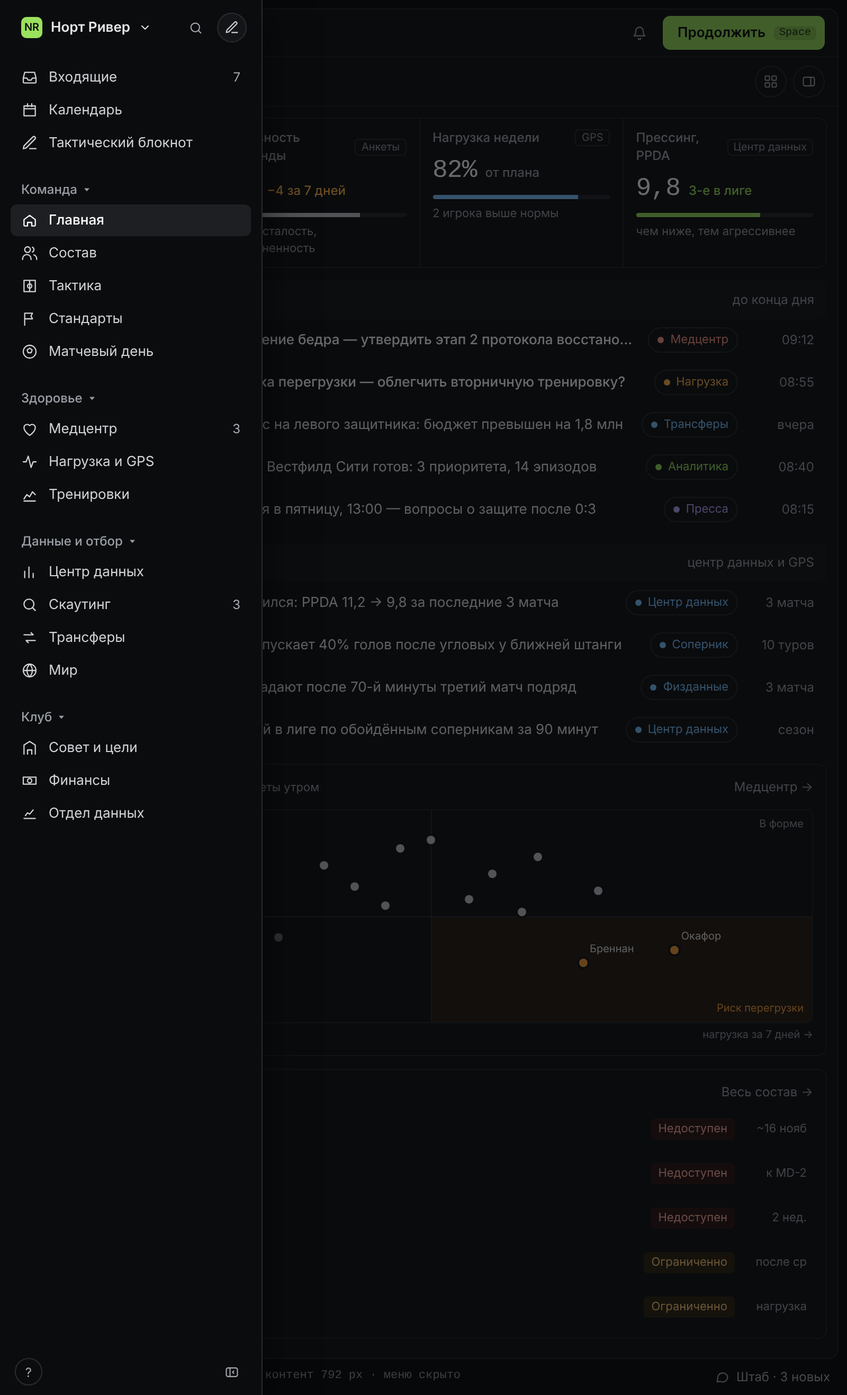
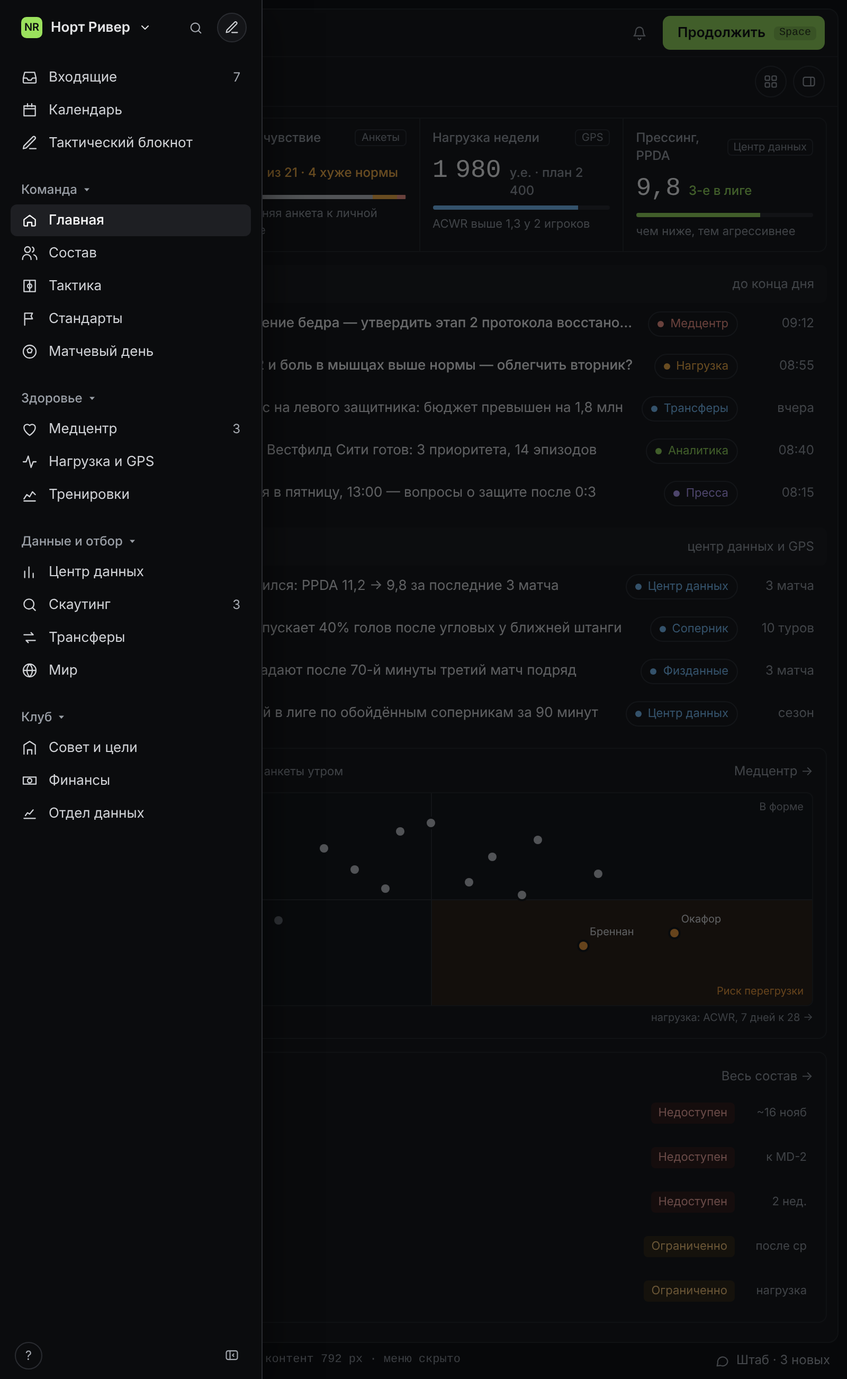
docs: wellness vs personal norm and load in AU/ACWR instead of percents (ADR-019)
- home and squad mockups updated
- concept: how wellness and load are shown

Claude-Session: https://claude.ai/code/session_01KdsR9CcbjxzH66kboJS9Ar

diff --git a/docs/design/source/squad/Squad.dc.html b/docs/design/source/squad/Squad.dc.html
@@ -99,8 +99,8 @@ button{font-family:inherit}
 <sc-if value="{{c.age}}" hint-placeholder-val="{{ true }}"><span role="columnheader" style="text-align: right">Возраст</span></sc-if>
 <sc-if value="{{c.role}}" hint-placeholder-val="{{ true }}"><span role="columnheader">Роль в команде</span></sc-if>
 <span role="columnheader">Статус</span>
-<span role="columnheader">Готовность</span>
-<sc-if value="{{c.load}}" hint-placeholder-val="{{ true }}"><span role="columnheader">Нагрузка 7 дн.</span></sc-if>
+<span role="columnheader" title="Утренняя анкета: сон, усталость, болезненность, стресс — сравнение с личной нормой игрока">Самочувствие</span>
+<sc-if value="{{c.load}}" hint-placeholder-val="{{ true }}"><span role="columnheader" title="Сумма за 7 дней: оценка тяжести (0–10) × минуты, в условных единицах; ACWR — 7 дней к среднему за 28">Нагрузка · ACWR</span></sc-if>
 <span role="columnheader">Уровень</span>
 <sc-if value="{{c.contract}}" hint-placeholder-val="{{ true }}"><span role="columnheader" style="text-align: right">Контракт</span></sc-if>
 <sc-if value="{{c.wage}}" hint-placeholder-val="{{ true }}"><span role="columnheader" style="text-align: right">Зарплата</span></sc-if>
@@ -130,14 +130,14 @@ button{font-family:inherit}
 <span style="flex: none; height: 20px; padding: 0 7px; border-radius: 4px; background: {{p.stBg}}; color: {{p.stFg}}; font-size: 11px; display: flex; align-items: center; white-space: nowrap">{{p.status}}</span>
 <span style="font-size: 11px; color: #9A9FA6; white-space: nowrap; overflow: hidden; text-overflow: ellipsis">{{p.back}}</span>
 </span>
-<span role="cell" style="display: flex; align-items: center; gap: 8px">
-<span style="width: 24px; text-align: right; font-family: &quot;JetBrains Mono&quot;, monospace; font-size: 12px; color: {{p.rdColor}}">{{p.rd}}</span>
-<span style="flex: 1; max-width: 56px; height: 4px; border-radius: 2px; background: #26272B; display: block"><span style="display: block; height: 4px; border-radius: 2px; width: {{p.rdW}}; background: {{p.rdColor}}"></span></span>
+<span role="cell" style="display: flex; align-items: center; gap: 6px; min-width: 0">
+<span style="width: 8px; height: 8px; flex: none; border-radius: 50%; background: {{p.wbColor}}"></span>
+<span style="font-size: 12px; font-weight: {{p.wbWeight}}; color: {{p.wbText}}; white-space: nowrap; overflow: hidden; text-overflow: ellipsis">{{p.wb}}</span>
 </span>
 <sc-if value="{{c.load}}" hint-placeholder-val="{{ true }}">
 <span role="cell" style="display: flex; align-items: center; gap: 8px">
-<span style="width: 40px; text-align: right; font-family: &quot;JetBrains Mono&quot;, monospace; font-size: 12px; color: {{p.ldColor}}">{{p.ld}}</span>
-<span style="position: relative; flex: 1; max-width: 64px; height: 4px; border-radius: 2px; background: #26272B; display: block"><span style="position: absolute; top: -3px; bottom: -3px; left: 83%; width: 1px; background: #4A4D55"></span><span style="display: block; height: 4px; border-radius: 2px; width: {{p.ldW}}; background: {{p.ldColor}}"></span></span>
+<span style="width: 44px; text-align: right; font-family: &quot;JetBrains Mono&quot;, monospace; font-size: 12px; color: #C3C6CB">{{p.au}}</span>
+<span style="height: 20px; padding: 0 6px; border-radius: 4px; background: {{p.acBg}}; color: {{p.acFg}}; font-family: &quot;JetBrains Mono&quot;, monospace; font-size: 11px; font-weight: 500; display: flex; align-items: center">{{p.ac}}</span>
 </span>
 </sc-if>
 <span role="cell" style="font-size: 12px; font-weight: {{p.lvlWeight}}; color: {{p.lvlColor}}; white-space: nowrap; overflow: hidden; text-overflow: ellipsis">{{p.lvl}}</span>
@@ -240,16 +240,16 @@ class Component extends DCLogic {
     var navW = navHidden ? 0 : (navCompact ? 60 : 224);
     var content = W - navW - 8 - (showPanel ? 320 : 0);
     var avail = content - 16 - 24;
-    var used = 32 + 150 + 160 + 88 + 120 + 4 * 12;
+    var used = 32 + 150 + 160 + 130 + 120 + 4 * 12;
     var c = { load: false, role: false, age: false, contract: false, wage: false };
-    [['load', 112], ['role', 110], ['age', 52], ['contract', 84], ['wage', 76]].forEach(function (o) {
+    [['load', 116], ['role', 110], ['age', 52], ['contract', 84], ['wage', 76]].forEach(function (o) {
       if (used + o[1] + 12 <= avail) { c[o[0]] = true; used += o[1] + 12; }
     });
     var cols = ['32px', 'minmax(150px, 1.5fr)'];
     if (c.age) { cols.push('52px'); }
     if (c.role) { cols.push('110px'); }
-    cols.push('minmax(160px, 1fr)', '88px');
-    if (c.load) { cols.push('112px'); }
+    cols.push('minmax(160px, 1fr)', '130px');
+    if (c.load) { cols.push('116px'); }
     cols.push('minmax(120px, 1fr)');
     if (c.contract) { cols.push('84px'); }
     if (c.wage) { cols.push('76px'); }
@@ -297,13 +297,20 @@ class Component extends DCLogic {
       var r = roles[a[6]], s = stat[a[7]];
       var rd = a[9], ld = a[10];
       var out = a[7] === 'out';
-      var rdColor = out ? '#5B5F66' : rd < 65 ? '#FFB547' : '#C3C6CB';
-      var ldColor = out ? '#5B5F66' : ld > 115 ? '#FF9A8A' : ld > 105 ? '#FFB547' : ld < 70 ? '#6B7078' : '#7CC4FF';
+      var factor = { '4': 'мышцы', '3': 'мышцы', '5': 'сон', '16': 'усталость', '7': 'сон', '1': 'стресс', '23': 'усталость' }[a[1]] || 'сон';
+      var dlt = rd >= 75 ? 0 : rd >= 65 ? 3 : 6;
+      var wb = out ? 'не заполняет' : dlt === 0 ? 'Норма' : dlt < 5 ? 'Хуже нормы · ' + factor : 'Тревожно · ' + factor;
+      var wbColor = out ? '#4A4D55' : dlt === 0 ? '#6FAF4A' : dlt < 5 ? '#FFB547' : '#FF9A8A';
+      var acwr = ld >= 100 ? 1 + (ld - 100) * 0.0185 : 1 - (100 - ld) * 0.006;
+      var acTxt = acwr.toFixed(2).replace('.', ',');
+      var acBg = out ? 'transparent' : acwr > 1.5 ? '#2E1715' : acwr > 1.3 ? '#2E2412' : acwr < 0.8 ? '#1B1F26' : '#1B1C20';
+      var acFg = out ? '#5B5F66' : acwr > 1.5 ? '#FFB0A6' : acwr > 1.3 ? '#FFCB7A' : acwr < 0.8 ? '#9CB3CF' : '#C3C6CB';
+      var au = Math.round(ld * 24 / 10) * 10;
       var on = st.sel === a[1];
       return { line: a[0], num: a[1], name: a[2], pos: a[3], posLong: a[4], age: String(a[5]), ageN: a[5], roleKey: a[6], statusKey: a[7],
         role: r[0], roleColor: r[1], roleWeight: r[2], status: s[0], stBg: s[1], stFg: s[2], back: a[8],
-        rd: out ? '—' : String(rd), rdW: (out ? 0 : rd) + '%', rdColor: rdColor,
-        ld: out ? '—' : ld + '%', ldW: Math.min(100, Math.round(ld / 1.2)) + '%', ldColor: ldColor, ldN: ld,
+        wb: wb, wbColor: wbColor, wbText: out ? '#8F949C' : dlt === 0 ? '#C3C6CB' : '#FFFFFF', wbWeight: dlt === 0 || out ? '400' : '500', wbScore: out ? '—' : String(8 + dlt), wbNorm: '8', wbFactor: factor, dlt: dlt,
+        au: out ? '—' : au.toLocaleString('ru-RU'), ac: out ? '—' : acTxt, acBg: acBg, acFg: acFg, acwr: out ? 0 : acwr,
         lvl: word(a[11]), lvlColor: a[11] >= 15 ? '#FFFFFF' : '#D0D2D6', lvlWeight: a[11] >= 15 ? '600' : '400',
         ct: 'до ' + a[12], ctColor: a[12] === '2027' ? '#FFCB7A' : '#C3C6CB', ctWeight: a[12] === '2027' ? '500' : '400', ctN: Number(a[12]),
         wage: a[13] + ' тыс.', nameWeight: a[6] === 'key' ? '600' : '500',
@@ -314,7 +321,7 @@ class Component extends DCLogic {
     var viewDefs = [
       { id: 'all', label: 'Все игроки', f: function () { return true; } },
       { id: 'first', label: 'Основа', f: function (p) { return p.roleKey === 'key' || p.roleKey === 'first'; } },
-      { id: 'med', label: 'Медицина и нагрузка', f: function (p) { return p.statusKey !== 'ok' || p.ldN > 105; } },
+      { id: 'med', label: 'Медицина и нагрузка', f: function (p) { return p.statusKey !== 'ok' || p.acwr > 1.3 || p.dlt > 0; } },
       { id: 'contracts', label: 'Контракты до 2027', f: function (p) { return p.ctN <= 2027; } },
       { id: 'young', label: 'Молодёжь до 21', f: function (p) { return p.ageN <= 21; } }
     ];
@@ -337,13 +344,13 @@ class Component extends DCLogic {
     var selP = all.filter(function (p) { return p.num === st.sel; })[0] || all[12];
     var details = {
       '8': { blocks: [['Техника', 'Очень хорошо'], ['Тактика', 'Очень хорошо'], ['Физика', 'Хорошо'], ['Психология', 'Очень хорошо']], season: [['Матчи · минуты', '10 · 884'], ['Голы · передачи', '2 · 3'], ['Обойдённые соперники за 90', '61 · 2-й в лиге'], ['Прогрессивные передачи за 90', '7,4']], noteIni: 'МС', note: 'Аналитик: главный разгоняющий игрок команды. Против Вестфилд Сити — ключ к выходу из прессинга.' },
-      '4': { blocks: [['Техника', 'Хорошо'], ['Тактика', 'Очень хорошо'], ['Физика', 'Очень хорошо'], ['Психология', 'Хорошо']], season: [['Матчи · минуты', '10 · 900'], ['Отборы · перехваты за 90', '2,1 · 1,8'], ['Спринты после 70-й', '−22% за 3 матча'], ['Нагрузка 7 дн.', '128% от плана']], noteIni: 'ДК', note: 'Физподготовка: в зоне риска перегрузки. Предлагаем облегчить вторник (LOAD-3 на главной).' }
+      '4': { blocks: [['Техника', 'Хорошо'], ['Тактика', 'Очень хорошо'], ['Физика', 'Очень хорошо'], ['Психология', 'Хорошо']], season: [['Матчи · минуты', '10 · 900'], ['Отборы · перехваты за 90', '2,1 · 1,8'], ['Спринты после 70-й', '−22% за 3 матча'], ['Высокоскоростной бег за 7 дн.', '2 140 м · +38% к норме']], noteIni: 'ДК', note: 'Физподготовка: ACWR 1,52 и боль в мышцах выше нормы третий день. Предлагаем облегчить вторник (LOAD-3 на главной).' }
     };
     var d0 = details[selP.num] || { blocks: [['Техника', selP.lvl], ['Тактика', selP.lvl], ['Физика', selP.lvl], ['Психология', selP.lvl]], season: [['Матчи · минуты', '—'], ['Голы · передачи', '—'], ['Обойдённые соперники за 90', '—'], ['Прогрессивные передачи за 90', '—']], noteIni: 'ГТ', note: 'Заметок нет.' };
     function kv(arr) { return arr.map(function (x) { return { k: x[0], v: x[1] }; }); }
     var d = { blocks: kv(d0.blocks), season: kv(d0.season), noteIni: d0.noteIni, note: d0.note };
     var sel = Object.assign({}, selP, d, { ini: selP.name.split(' ').map(function (w) { return w[0]; }).join(''),
-      kpis: [{ l: 'Готовность', v: selP.rd, n: 'анкета утром', c: selP.rdColor === '#5B5F66' ? '#9A9FA6' : '#FFFFFF' }, { l: 'Нагрузка', v: selP.ld, n: 'от плана, 7 дн.', c: selP.ldColor }, { l: 'Матчи', v: selP.num === '8' ? '10' : (selP.num === '4' ? '10' : '—'), n: 'в сезоне', c: '#FFFFFF' }] });
+      kpis: [{ l: 'Самочувствие', v: selP.wbScore, n: 'личная норма ' + selP.wbNorm, c: selP.dlt === 0 ? '#FFFFFF' : selP.dlt < 5 ? '#FFCB7A' : '#FFB0A6' }, { l: 'ACWR', v: selP.ac, n: selP.au + ' у.е. за 7 дн.', c: selP.acFg }, { l: 'Матчи', v: selP.num === '8' ? '10' : (selP.num === '4' ? '10' : '—'), n: 'в сезоне', c: '#FFFFFF' }] });
 
     var I = {
       inbox: 'M3 13h5l2 3h4l2-3h5M5 5h14l2 8v6a1 1 0 0 1-1 1H4a1 1 0 0 1-1-1v-6z', cal: 'M4 6h16v14H4zM4 10h16M9 3v4M15 3v4', notes: 'M12 20h9M16.5 3.5a2.1 2.1 0 0 1 3 3L7 19l-4 1 1-4z',

diff --git a/docs/design/source/home/Desk.dc.html b/docs/design/source/home/Desk.dc.html
@@ -241,15 +241,15 @@ body{margin:0}
 
 <section aria-labelledby="h-quad" style="flex: 1 1 {{quadBasis}}; min-width: 0; border: 1px solid #222327; border-radius: 8px; padding: 12px; display: flex; flex-direction: column; gap: 10px">
 <div style="display: flex; align-items: center; gap: 8px">
-<h2 id="h-quad" style="margin: 0; font-size: 14px; font-weight: 600">Нагрузка × готовность</h2>
+<h2 id="h-quad" style="margin: 0; font-size: 14px; font-weight: 600">Нагрузка × самочувствие</h2>
 <span style="font-size: 11px; color: #9A9FA6">GPS + анкеты утром</span>
 <div style="flex: 1"></div>
 <a href="#" style="font-size: 12px; color: #9A9FA6">Медцентр →</a>
 </div>
 <div style="display: flex; gap: 8px">
-<div style="writing-mode: vertical-rl; transform: rotate(180deg); font-size: 10px; color: #8F949C; text-align: center">готовность ↑</div>
+<div style="writing-mode: vertical-rl; transform: rotate(180deg); font-size: 10px; color: #8F949C; text-align: center">самочувствие к норме ↑</div>
 <div style="flex: 1; display: flex; flex-direction: column; gap: 4px">
-<div role="img" aria-label="Точечный график: игроки по нагрузке и готовности; в зоне риска Окафор и Бреннан" style="position: relative; height: 200px; border: 1px solid #222327; border-radius: 6px; overflow: hidden; background: #111215">
+<div role="img" aria-label="Точечный график: игроки по ACWR и самочувствию к личной норме; в зоне риска Окафор и Бреннан" style="position: relative; height: 200px; border: 1px solid #222327; border-radius: 6px; overflow: hidden; background: #111215">
 <div style="position: absolute; left: 50%; top: 50%; right: 0; bottom: 0; background: #2A1D12"></div>
 <div style="position: absolute; left: 50%; top: 0; bottom: 0; width: 1px; background: #2A2C31"></div>
 <div style="position: absolute; top: 50%; left: 0; right: 0; height: 1px; background: #2A2C31"></div>
@@ -264,7 +264,7 @@ body{margin:0}
 <span style="position: absolute; left: {{d.x}}; top: {{d.y}}; margin: -20px 0 0 6px; font-size: 10px; color: #E3E4E6; white-space: nowrap">{{d.name}}</span>
 </sc-for>
 </div>
-<div style="text-align: right; font-size: 10px; color: #8F949C">нагрузка за 7 дней →</div>
+<div style="text-align: right; font-size: 10px; color: #8F949C">нагрузка: ACWR, 7 дней к 28 →</div>
 </div>
 </div>
 </section>
@@ -492,7 +492,7 @@ class Component extends DCLogic {
     }
     var decisions = [
       row({ code: 'MED-14', urgent: true, title: 'Лиам Харт: растяжение бедра — утвердить этап 2 протокола восстановления', hasChip: true, chip: 'Медцентр', chipColor: '#FF9A8A', hasIni: true, ini: 'ДК', meta: '09:12' }),
-      row({ code: 'LOAD-3', urgent: true, title: 'Окафор в зоне риска перегрузки — облегчить вторничную тренировку?', hasChip: true, chip: 'Нагрузка', chipColor: '#FFB547', hasIni: true, ini: 'ДК', meta: '08:55' }),
+      row({ code: 'LOAD-3', urgent: true, title: 'Окафор: ACWR 1,52 и боль в мышцах выше нормы — облегчить вторник?', hasChip: true, chip: 'Нагрузка', chipColor: '#FFB547', hasIni: true, ini: 'ДК', meta: '08:55' }),
       row({ code: 'TRF-6', todo: true, title: 'СД отклонил запрос на левого защитника: бюджет превышен на 1,8 млн', hasChip: true, chip: 'Трансферы', chipColor: '#7CC4FF', hasIni: true, ini: 'СД', meta: 'вчера' }),
       row({ code: 'ANL-21', ready: true, title: 'Пакет подготовки к Вестфилд Сити готов: 3 приоритета, 14 эпизодов', hasChip: true, chip: 'Аналитика', chipColor: accent, hasIni: true, ini: 'МС', meta: '08:40' }),
       row({ code: 'PR-9', progress: true, title: 'Пресс-конференция в пятницу, 13:00 — вопросы о защите после 0:3', hasChip: true, chip: 'Пресса', chipColor: '#B9A2FF', meta: '08:15' })
@@ -528,8 +528,8 @@ class Component extends DCLogic {
     });
     var kpis = [
       { label: 'Доступность', src: 'Медцентр', value: '81%', delta: '21 из 26', deltaColor: '#9A9FA6', bars: [{ w: '81%', c: accent }, { w: '8%', c: '#FFB547' }, { w: '11%', c: '#FF9A8A' }], note: 'доступны · ограниченно · недоступны' },
-      { label: 'Готовность команды', src: 'Анкеты', value: '74', delta: '−4 за 7 дней', deltaColor: '#FFB547', bars: [{ w: '74%', c: '#C3C6CB' }], note: 'сон, усталость, болезненность' },
-      { label: 'Нагрузка недели', src: 'GPS', value: '82%', delta: 'от плана', deltaColor: '#9A9FA6', bars: [{ w: '82%', c: '#7CC4FF' }], note: '2 игрока выше нормы' },
+      { label: 'Самочувствие', src: 'Анкеты', value: '17', delta: 'из 21 · 4 хуже нормы', deltaColor: '#FFB547', bars: [{ w: '81%', c: '#C3C6CB' }, { w: '14%', c: '#FFB547' }, { w: '5%', c: '#FF9A8A' }], note: 'утренняя анкета к личной норме' },
+      { label: 'Нагрузка недели', src: 'GPS', value: '1 980', delta: 'у.е. · план 2 400', deltaColor: '#9A9FA6', bars: [{ w: '82%', c: '#7CC4FF' }], note: 'ACWR выше 1,3 у 2 игроков' },
       { label: 'Прессинг, PPDA', src: 'Центр данных', value: '9,8', delta: '3-е в лиге', deltaColor: accent, bars: [{ w: '70%', c: accent }], note: 'чем ниже, тем агрессивнее' }
     ];
     var pl = [

diff --git a/docs/concept.md b/docs/concept.md
@@ -48,10 +48,10 @@
 
 ### Главная v2 (эталонный экран)
 
-- Полоса показателей дня: доступность состава, готовность команды, нагрузка недели, прессинг (PPDA) — у каждого виден источник (Медцентр, Анкеты, GPS, Центр данных).
+- Полоса показателей дня: доступность состава, самочувствие (сколько игроков в личной норме), нагрузка недели в у.е. против плана, прессинг (PPDA) — у каждого виден источник (Медцентр, Анкеты, GPS, Центр данных).
 - Группа «Требует решения»: решения дня от медцентра, нагрузки, спортивного директора, аналитиков, прессы.
 - Группа «Инсайты недели»: находки центра данных и GPS.
-- Виджет «Нагрузка × готовность»: точечный график с квадрантами, зона риска перегрузки подсвечена.
+- Виджет «Нагрузка × самочувствие»: точечный график (ACWR по горизонтали, самочувствие к личной норме по вертикали) с квадрантами, зона риска перегрузки подсвечена.
 - Виджет «Доступность»: статусы «доступен / ограниченно / недоступен» и сроки возвращения.
 - Правая панель: следующий матч, сравнение с соперником по центру данных, вывод аналитика, кнопки «Пакет подготовки» и «Тактическая карта», таблица, цели совета.
 - Вкладки «Сегодня / Неделя / Все события»; на «Неделе» — микроцикл с целевой нагрузкой.
@@ -79,7 +79,7 @@
 | Центр данных            | StatsBomb, Opta, IMPECT, SkillCorner                  | Свой «StatsBomb»: события и метрики с начала сохранения, радары, сравнения, сети передач, карты по зонам, индекс игрока, текстовые сводки, клик по точке → 2D-повтор                      |
 | Скаутинг и Мир          | Wyscout, ScoutDecision                                | Навигация лига → клуб → игрок, расширенный поиск с позицией на схеме и ползунками, рейтинги, центр талантов, теневая команда, шорт-листы, сравнение со своим составом, плейлисты эпизодов |
 | Медцентр                | Kitman Labs, Iterpro                                  | Медкарта, этапы восстановления с контрольными точками, чек-лист возвращения, карта тела, обзор травм со сравнением с лигой, правила штаба                                                 |
-| Готовность игрока       | Iterpro Readiness                                     | Утренняя анкета (сон, стресс, усталость, болезненность, настроение), индекс готовности, риск травмы                                                                                       |
+| Самочувствие игрока     | Iterpro Readiness                                     | Утренняя анкета (сон, стресс, усталость, боль в мышцах), сравнение с личной нормой, флаги штаба                                                                                           |
 | Нагрузка и GPS          | Catapult, Iterpro Session                             | Дистанция, высокоскоростной бег, спринты, ускорения и торможения, нагрузка; отчёт по тренировке с порогами; снятие игрока из красной зоны                                                 |
 | Тренировки и календарь  | Iterpro Planning, XPS Network                         | Месяц и неделя, карточка занятия: тема, подтема, целевая нагрузка, участники, штаб; дни относительно матча (MD±)                                                                          |
 | Тактический блокнот     | Coach Paint                                           | Эстетический инструмент: рисунки поверх стоп-кадра или поля сохраняются в библиотеку, прикрепляются к тактике или досье соперника                                                         |
@@ -108,6 +108,16 @@
 17. **Правила штаба** (по образцу Logic Builder): игрок сам задаёт условия уведомлений.
 18. **Система съёмки тренировок** — улучшение инфраструктуры в собственном варианте (ускоряет отработку стандартов и слаженности линий).
 19. **ACWR** показывается как подсказка штаба, а не точный прогноз: риск травм в симуляции учитывает усталость, резкие скачки нагрузки, склонность игрока, возраст.
+
+### Как показываются самочувствие и нагрузка
+
+Как в реальных клубах: не абстрактные «готовность 82%», а измерения в своих единицах и сравнение с **личной нормой** игрока.
+
+- **Самочувствие** — утренняя анкета до тренировки: сон, усталость, боль в мышцах, стресс, каждый пункт 1–7 (1 — отлично, 7 — очень плохо), сумма 4–28, меньше — лучше. Важна не сумма сама по себе, а отклонение от личной нормы игрока за последние недели: «Норма», «Хуже нормы» (+2…+4), «Тревожно» (+5 и больше) и главный фактор («сон», «мышцы»). Травмированные анкету не заполняют.
+- **Внутренняя нагрузка** — тяжесть занятия по шкале 0–10 (игрок оценивает через 30 минут после тренировки) × минуты, в условных единицах (у.е.); за неделю обычно 1 500–3 000 у.е.
+- **Внешняя нагрузка (GPS)** — общая дистанция, высокоскоростной бег (быстрее 19,8 км/ч, в метрах), спринты (быстрее 25 км/ч), ускорения и торможения. Часто сравнивается с нормой игрока или с нагрузкой в матче («+38% к норме»).
+- **ACWR** — нагрузка за 7 дней к средней за 28. 0,8–1,3 — обычная зона, выше 1,5 — штаб настораживается, ниже 0,8 — недогруз. Подсказка, а не прогноз травмы (см. механику 19).
+- Проценты используем только там, где ясно, от чего они: «82% плана недели», «+38% к норме». Голых «процентов готовности» в интерфейсе нет.
 
 ## 6. Движок матча
 

diff --git a/docs/decisions.md b/docs/decisions.md
@@ -16,6 +16,12 @@
 - **Причина:** макет главной v2, правила «Окно и адаптивность» и ADR-014.
 - **Отвергли:** вычисление раскладки через CSS media queries (нужны ручные переключения внутри зоны и правило 560 px с учётом ширины панелей — проще и тестируемее в TypeScript).
 
+## ADR-019 — Самочувствие и нагрузка в реальных единицах
+
+- **Дата:** 2026-10-26
+- **Решение:** вместо «готовности» и «нагрузки» в процентах — анкета самочувствия (4 пункта 1–7) с отклонением от личной нормы, нагрузка в у.е. (тяжесть × минуты) и метрах GPS, ACWR как подсказка. Проценты — только с явной базой («от плана», «к норме»).
+- **Причина:** замечание пользователя: проценты нереалистичны; в клубах так не считают. Подробно — `docs/concept.md`, раздел 5.
+
 ## ADR-018 — Залитые значки статуса
 
 - **Дата:** 2026-10-25
